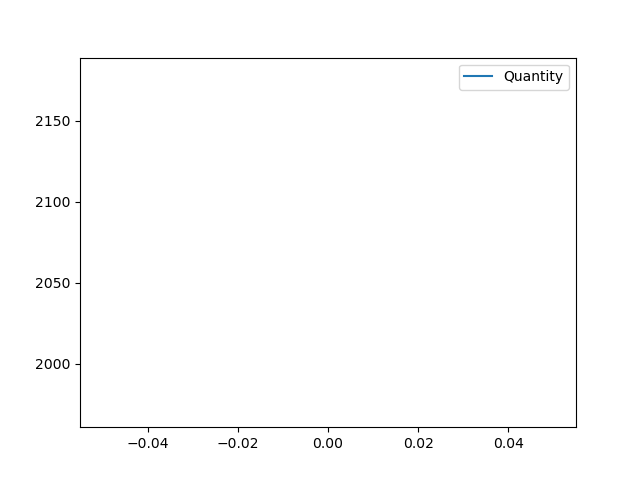
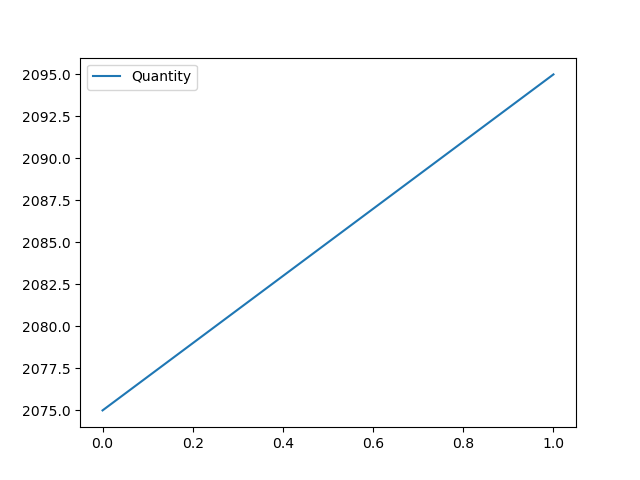
Update

diff --git a/utils/SPPGym.py b/utils/SPPGym.py
@@ -255,17 +255,18 @@ class SPPGym(gym.Env):
         info = {}
         self._test_solution()
 
-        # x, y, q = self.observation_to_variables(obs)
-        # self.solving_instance.set_variable_solution(x, y, q)
-        # self.solving_instance._maximize_quantities_greedy()
-        # x, y, q = self.solving_instance.get_arc_variables()
-        # objective = self.solving_instance.get_score()
+        x, y, q = self.observation_to_variables(obs)
+        self.solving_instance.set_variable_solution(x, y, q)
+        self.solving_instance._maximize_quantities_greedy()
+        x, y, q = self.solving_instance.get_arc_variables()
+        objective = self.solving_instance.get_score()
+        self.solving_instance.__init__(self.problem_instance)
 
-        objective = np.sum(self.state[-self.problem_instance.total_number_of_demands :])
+        # objective = np.sum(self.state[-self.problem_instance.total_number_of_demands :])
 
         if objective > self.max_q_reached:
             self.max_q_reached = objective
-            self.best_solution = self.observation_to_variables(self.state)
+            # self.best_solution = self.observation_to_variables(self.state)
             self.best_solution = (x, y, q)
             self.scores_reached.append(objective)
             plt.plot(self.scores_reached, label="Quantity")

diff --git a/problem_classes/solvinginstance.py b/problem_classes/solvinginstance.py
@@ -48,6 +48,9 @@ class SolvingInstance:
 
     def place_service(self, service_index: int, node: int, force: bool = False):
         assert self.service_placement[service_index] == -1, "Already placed"
+        assert service_index < self.problem_instance.number_of_service
+        assert node < self.graph.number_of_nodes()
+
         self.service_placement[service_index] = node
         self.graph.nodes[node][
             "remaining_resources"

diff --git a/utils/graph_utils.py b/utils/graph_utils.py
@@ -65,6 +65,8 @@ def get_encoded_incoming_arc(
 def edges_to_path(edges_used: list, start: int, end: int) -> list:
     if not len(edges_used):
         return []
+    elif len(edges_used) == 1:
+        return list(edges_used[0])
     path = [edge for edge in edges_used if edge[0] == start]
 
     while len(path) < len(edges_used) - 1:
